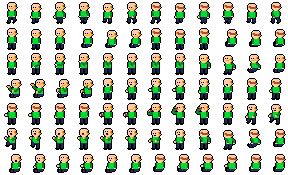
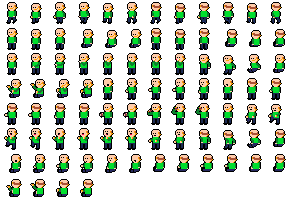
Update humans

diff --git a/src/game/human_states/SitTalkState.ts b/src/game/human_states/SitTalkState.ts
@@ -45,11 +45,11 @@ export class SitTalkState extends AbstractState {
         } else {
             if (!this.isHumanOnTheRightCell && this.isNeighborPosition()) {
                 this.isHumanOnTheRightCell = true;
-                this.human.interactWith(this.meeting.getCell(this.human), this.meeting.getTable().forceOrientation(this.meeting.getCell(this.human).getIdentifier()));
+                this.human.interactWith(this.meeting.getCell(this.human), this.meeting.getTable().forceLeftOrientation(this.meeting.getCell(this.human).getIdentifier()));
                 this.events.push(this.game.time.events.add(this.human.getWalkDuration() + 100, () => {
                     this.human.loadAnimation(
                         ANIMATION.SIT_DOWN,
-                        this.meeting.getTable().forceOrientation(this.meeting.getCell(this.human).getIdentifier()),
+                        this.meeting.getTable().forceLeftOrientation(this.meeting.getCell(this.human).getIdentifier()),
                         this.table.forceTopOrientation(this.meeting.getCell(this.human).getIdentifier())
                     );
                     this.events.push(this.game.time.events.add(HumanAnimationManager.getAnimationTime(ANIMATION.SIT_DOWN) + 100, () => {
@@ -132,7 +132,7 @@ export class SitTalkState extends AbstractState {
             this.game.time.events.remove(event);
         });
         this.human.hideTalkBubble();
-        this.human.loadAnimation(ANIMATION.STAND_UP, this.meeting.getTable().forceOrientation(this.meeting.getCell(this.human).getIdentifier()));
+        this.human.loadAnimation(ANIMATION.STAND_UP, this.meeting.getTable().forceLeftOrientation(this.meeting.getCell(this.human).getIdentifier()));
         this.events.push(this.game.time.events.add(HumanAnimationManager.getAnimationTime(ANIMATION.STAND_UP) + 100, () => {
             this.human.goToFreeCell(this.meeting.getCell(this.human));
             this.events.push(this.game.time.events.add(this.human.getWalkDuration() + 100, () => {

diff --git a/src/game/human_stuff/HumanAnimationManager.ts b/src/game/human_stuff/HumanAnimationManager.ts
@@ -38,16 +38,16 @@ export class HumanAnimationManager {
         return animation + (isTop ? TOP_ORIENTED_ANIMATION : '');
     }
 
-    loadAnimation(animation: ANIMATION, isLeft: boolean = null, isTop: boolean = null) {
+    loadAnimation(animation: ANIMATION, isLeftLooking: boolean = null, isTopLooking: boolean = null) {
         let animationName = animation + '';
         if (HumanAnimationManager.hasTopOrientedVariation(animation)) {
-            animationName = this.getAnimationName(animation, isTop);
+            animationName = this.getAnimationName(animation, isTopLooking);
         }
         if (this.humanTile.animations.name !== animationName) {
             this.humanTile.animations.play(animationName, FRAME_RATE, HumanAnimationManager.isLooped(animation));
         }
-        if (isLeft != null) {
-            this.humanTile.scale.set(isLeft ? 1 : -1, 1);
+        if (isLeftLooking != null) {
+            this.humanTile.scale.set(isLeftLooking ? 1 : -1, 1);
         }
     }
 
@@ -62,7 +62,7 @@ export class HumanAnimationManager {
             case ANIMATION.WALK: return topOriented ? [6, 7, 8, 9, 10, 11] : [0, 1, 2, 3, 4, 5];
             case ANIMATION.SIT_DOWN: return topOriented ? [18, 68, 69, 70, 71] : [12, 32, 33, 34, 35];
             case ANIMATION.STAND_UP: return topOriented ? [71, 70, 69, 68, 18] : [35, 34, 33, 32, 12];
-            case ANIMATION.TYPE: return [36, 37, 38, 39];
+            case ANIMATION.TYPE: return topOriented ? [84, 85, 86, 87] : [36, 37, 38, 39];
             case ANIMATION.TALK: return topOriented ? [46, 47, 48, 49, 50, 51] : [40, 41, 42, 43, 44, 45];
             case ANIMATION.SIT_TALK: return topOriented ? [78, 79, 80, 81, 82, 83] : [72, 73, 74, 75, 76, 77];
             case ANIMATION.RAGE:
@@ -115,6 +115,7 @@ export class HumanAnimationManager {
             ANIMATION.STAND_UP,
             ANIMATION.FREEZE_SIT,
             ANIMATION.SIT_TALK,
+            ANIMATION.TYPE,
         ].indexOf(animation) > -1;
     }
 

diff --git a/src/game/user_interface/UserInfoPanel.ts b/src/game/user_interface/UserInfoPanel.ts
@@ -6,11 +6,11 @@ import {Employee} from "../human_stuff/Employee";
 import {TEXT_STYLE} from "../TextStyle";
 import {MOOD} from "../human_stuff/HumanMoodManager";
 import {PieChart} from "./PieChart";
-import {HumanStateManager, STATE} from "../human_stuff/HumanStateManager";
+import {HumanStateManager} from "../human_stuff/HumanStateManager";
 import {Gauge} from "./Gauge";
 import {COLOR} from "../Pico8Colors";
+import {ColoredGauge} from "./ColoredGauge";
 
-const HEIGHT = 80;
 const GRAPH_GAP = 2;
 const GAP_BETWEEN_LINES = 10;
 const GAUGE_GAP = 100;
@@ -34,9 +34,9 @@ export class UserInfoPanel {
         this.visible = true;
         this.pieChart = new PieChart();
         const gaugeWidth = INTERFACE_WIDTH - GAUGE_GAP - GRAPH_GAP;
-        this.moodRelaxationGauge = new Gauge(gaugeWidth, COLOR.WHITE, 8);
-        this.moodHungerGauge = new Gauge(gaugeWidth, COLOR.WHITE, 8);
-        this.moodSocialGauge = new Gauge(gaugeWidth, COLOR.WHITE, 8);
+        this.moodRelaxationGauge = new ColoredGauge(gaugeWidth, 8);
+        this.moodHungerGauge = new ColoredGauge(gaugeWidth, 8);
+        this.moodSocialGauge = new ColoredGauge(gaugeWidth, 8);
     }
 
     create(game: Phaser.Game, groups: { [index: string]: Phaser.Group }) {

diff --git a/src/game/user_interface/Gauge.ts b/src/game/user_interface/Gauge.ts
@@ -4,7 +4,7 @@ import {COLOR} from "../Pico8Colors";
 export const DEFAULT_BAR_HEIGHT = 10;
 
 export class Gauge {
-    private value: number;
+    protected value: number;
     private width: number;
     private graphics: Phaser.Graphics;
     private color: COLOR;
@@ -35,7 +35,7 @@ export class Gauge {
             this.graphics.lineStyle(0);
             this.graphics.beginFill(COLOR.BLACK);
             this.graphics.drawRect(0, 0.5, this.width, this.height);
-            this.graphics.beginFill(this.color);
+            this.graphics.beginFill(this.getColor());
             this.graphics.drawRect(0, 0.5, Math.floor(this.width * this.value) + 0.5, this.height);
             this.graphics.endFill();
             this.graphics.lineStyle(1, COLOR.WHITE);
@@ -59,5 +59,9 @@ export class Gauge {
 
     getGraphics(): Phaser.Graphics {
         return this.graphics;
+    }
+
+    protected getColor(): COLOR {
+        return this.color;
     }
 }

diff --git a/src/game/human_states/TypeState.ts b/src/game/human_states/TypeState.ts
@@ -22,9 +22,9 @@ export class TypeState extends MoveThenActAbstractState {
     }
 
     protected act(): void {
-        this.human.loadAnimation(ANIMATION.SIT_DOWN, this.objectReferer.getObject().forceOrientation(this.objectReferer.getIdentifier()));
+        this.human.loadAnimation(ANIMATION.SIT_DOWN, this.objectReferer.getObject().forceLeftOrientation(this.objectReferer.getIdentifier()));
         this.events.push(this.game.time.events.add(HumanAnimationManager.getAnimationTime(ANIMATION.SIT_DOWN), () => {
-            this.human.loadAnimation(ANIMATION.TYPE);
+            this.human.loadAnimation(ANIMATION.TYPE, this.objectReferer.forceLeftOrientation(), this.objectReferer.forceTopOrientation());
             const time = Phaser.Math.random(15 * Phaser.Timer.SECOND, SECOND_MAX);
             this.worldKnowledge.addProgress(this.human.getType(), time / SECOND_MAX, time);
             this.worldKnowledge.addMoneyInWallet(new Price(100));

diff --git a/src/game/user_interface/HumanEmployer.ts b/src/game/user_interface/HumanEmployer.ts
@@ -8,6 +8,7 @@ import {GROUP_INTERFACE} from "../game_state/Play";
 import {TEXT_STYLE} from "../TextStyle";
 import {COLOR} from "../Pico8Colors";
 import {DEFAULT_BAR_HEIGHT, Gauge} from "./Gauge";
+import {ColoredGauge} from "./ColoredGauge";
 
 export class HumanEmployer {
     private worldKnowledge: WorldKnowledge;
@@ -92,7 +93,7 @@ class ApplicantButton {
         this.worldKnowledge = worldKnowledge;
         this.availabilityTime = (45 + Math.random() * 45) * Phaser.Timer.SECOND;
         this.remainingTime = this.availabilityTime;
-        this.remainingGauge = new Gauge(OBJECT_SELLER_CELL_SIZE, COLOR.YELLOW, 5);
+        this.remainingGauge = new ColoredGauge(OBJECT_SELLER_CELL_SIZE, 5);
     }
 
     create(game: Phaser.Game, groups: {[index: string] : Phaser.Group}, index: number) {

diff --git a/src/game/human_states/SitState.ts b/src/game/human_states/SitState.ts
@@ -19,7 +19,7 @@ export class SitState extends MoveThenActAbstractState {
     }
 
     protected act() {
-        this.human.loadAnimation(ANIMATION.SIT_DOWN, this.objectReferer.getObject().forceOrientation(this.objectReferer.getIdentifier()));
+        this.human.loadAnimation(ANIMATION.SIT_DOWN, this.objectReferer.getObject().forceLeftOrientation(this.objectReferer.getIdentifier()));
         this.human.updateMoodFromState();
         this.events.push(this.game.time.events.add(Phaser.Math.random(3, 10) * Phaser.Timer.SECOND + HumanAnimationManager.getAnimationTime(ANIMATION.SIT_DOWN), () => {
             this.human.loadAnimation(ANIMATION.STAND_UP);

diff --git a/src/game/human_states/MoveThenActAbstractState.ts b/src/game/human_states/MoveThenActAbstractState.ts
@@ -41,7 +41,7 @@ export abstract class MoveThenActAbstractState extends AbstractState {
 
         if (!this.isHumanOnTheRightCell && this.isNeighborPosition()) {
             this.isHumanOnTheRightCell = true;
-            this.human.interactWith(this.objectReferer, this.objectReferer.getObject().forceOrientation(this.objectReferer.getIdentifier()));
+            this.human.interactWith(this.objectReferer, this.objectReferer.getObject().forceLeftOrientation(this.objectReferer.getIdentifier()));
             this.events.push(this.game.time.events.add(this.human.getWalkDuration() + 100, () => {
                 this.act();
             }));

diff --git a/src/game/objects/ObjectInfoRegistry.ts b/src/game/objects/ObjectInfoRegistry.ts
@@ -47,7 +47,7 @@ export class ObjectInfoRegistry {
             ],
             [
                 new SpriteInfo('desk_reverse', [],0, 0, 10, 0, 0, 0, false, true),
-                new SpriteInfo('chair_reverse', [DIRECTION.BOTTOM, DIRECTION.TOP, DIRECTION.RIGHT], -6, -4, 5, 0, 0, 0, false, true),
+                new SpriteInfo('chair_reverse', [DIRECTION.BOTTOM, DIRECTION.LEFT, DIRECTION.RIGHT], -6, -4, 5, 3, 0, 0, false, true),
             ],
             new Price(20)
         ));

diff --git a/src/game/objects/InteractiveObjectInterface.ts b/src/game/objects/InteractiveObjectInterface.ts
@@ -10,7 +10,7 @@ export interface InteractiveObjectInterface extends ObjectInterface {
      * Returns true if the human has to be right-sided, false if the human has to be left-sided, null if don't care.
      * @returns {boolean}
      */
-    forceOrientation(subObjectNumber: number): boolean;
+    forceLeftOrientation(subObjectNumber: number): boolean;
 
     /**
      * Returns true if the human has to be top-sided, false if the human has to be bottom-sided, null if don't care.

diff --git a/src/game/human_stuff/Employee.ts b/src/game/human_stuff/Employee.ts
@@ -255,8 +255,8 @@ export class Employee {
         }
     }
 
-    loadAnimation(animation: ANIMATION, isLeft: boolean = null, isTop: boolean = null) {
-        this.animationManager.loadAnimation(animation, isLeft, isTop);
+    loadAnimation(animation: ANIMATION, isLeftLooking: boolean = null, isTopLooking: boolean = null) {
+        this.animationManager.loadAnimation(animation, isLeftLooking, isTopLooking);
     }
 
     isSelected(): boolean {

diff --git a/src/game/objects/AbstractObject.ts b/src/game/objects/AbstractObject.ts
@@ -98,7 +98,7 @@ export abstract class AbstractObject implements InteractiveObjectInterface {
         }
     }
 
-    forceOrientation(subObjectNumber: number): boolean {
+    forceLeftOrientation(subObjectNumber: number): boolean {
         const infos = ObjectInfoRegistry.getObjectInfo(this.constructor.name);
 
         return infos.getSpriteInfo(this.orientation, subObjectNumber).isHumanLeftLooking(this.orientation);
